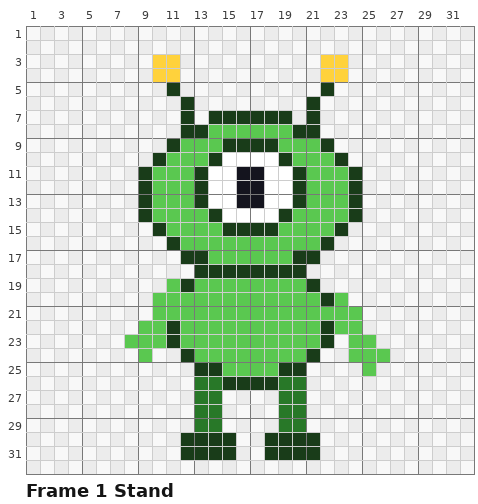
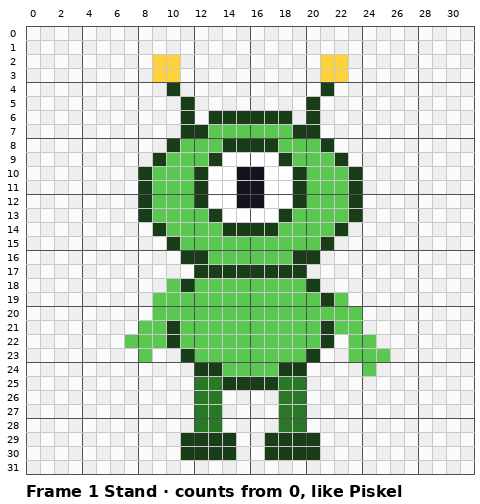
Jumping Alien: count rows and columns from 0; redraw frame grids; mouse counter note
Claude-Session: https://claude.ai/code/session_0163dwnT656jUnDkoJDXqKES

diff --git a/piskel/lesson-00-jumping-alien/index.html b/piskel/lesson-00-jumping-alien/index.html
@@ -78,7 +78,7 @@
       <div class="bubble"><b>5C · Hand in</b>Google Classroom<br>.piskel + .png</div>
     </div></div>
   </div>
-  <p class="key">Each colour is one part. Codes like 2B mean Part 2, section B. Underlined words are links. Codes like #5AC850 are colours.</p>
+  <p class="key">Each colour is one part. Codes like 2B mean Part 2, section B. Underlined words are links. Codes like #5AC850 are colours. Row and column numbers count from 0, the same as Piskel's yellow mouse counter and the picture grids.</p>
 </section>
 
 <div class="controls">
@@ -100,6 +100,7 @@
 <tr><td><b>Canvas</b> (where you draw)</td><td>Middle of the screen</td></tr>
 <tr><td><b>Preview</b> window, its speed slider and the quick <b>#</b> grid button</td><td>Top-right corner. The # button stays hidden until you move the mouse to the top of the Preview window, under Create Sprite.</td></tr>
 <tr><td><b>Settings</b> (gear) and its <b>Grid</b> tab</td><td>Strip of icons on the far right edge. Background (Misc tab), grid colour and turning the grid on (Grid tab) are set here.</td></tr>
+<tr><td><b>Mouse position</b> (yellow numbers)</td><td>Bottom-right, under the Palettes panel. Shows column:row of the pixel under the mouse, counting from 0.</td></tr>
 <tr><td><b>Resize</b>, <b>Save</b>, <b>Export</b>, <b>Import</b> buttons</td><td>A strip of icons down the far right edge</td></tr>
 </table>
 <p>Hold your mouse over any icon and its name pops up. Piskel has no hidden panels to lose; if the screen looks squashed, make the browser window full screen.</p>
@@ -136,8 +137,9 @@
 <details class="part" id="part2" name="parts" style="--c:var(--p2)">
 <summary><h2>Part 2 · Draw frame 1: Stand</h2><span class="done"></span></summary>
 <div class="body">
-<p>Copy the Stand picture square by square. The numbers along the top and side count the pixels, so you can find your place.</p>
-<img class="ref" src="img/frame-1.png" alt="Frame 1 Stand on a numbered 32 by 32 grid" width="482" height="504">
+<p>Copy the Stand picture square by square. The numbers along the top and side count the pixels from 0, so you can find your place.</p>
+<div class="note what"><b>Where is my mouse?</b> The yellow numbers at the bottom-right, under the Palettes panel, show which pixel the mouse is over: the canvas size in brackets, then <b>column:row</b>, counting from 0 like the grids. The top-left pixel is <b>0:0</b>.<img src="../../assets/piskel/mouse-position.png" alt="Yellow numbers at the bottom-right of Piskel: zoom, then canvas size and column:row under the mouse, then frame" width="170" height="70" style="display:block;max-width:100%;height:auto;margin:.5em 0;border:1px solid #ccc;border-radius:6px"></div>
+<img class="ref" src="img/frame-1.png?v=2" alt="Frame 1 Stand on a numbered 32 by 32 grid" width="480" height="504">
 <table>
 <tr><th>Part of the alien</th><th>Colour code</th></tr>
 <tr><td>Outline</td><td><b>#193C19</b> (very dark green)</td></tr>
@@ -178,7 +180,7 @@
 <div class="check"><strong>Checkpoint · Part 2</strong>
 <label><input type="checkbox"> The alien matches the Stand picture (close is fine)</label>
 <label><input type="checkbox"> The background around it is still see-through (checkerboard)</label>
-<label><input type="checkbox"> The feet touch row 31 and nothing is drawn below row 31</label>
+<label><input type="checkbox"> The feet touch row 30 and nothing is drawn below row 30</label>
 <label><input type="checkbox"> The Preview window (top-right) shows the alien</label>
 </div>
 </div>
@@ -194,16 +196,16 @@
 <div class="note"><b>Close enough is fine.</b> What matters is the pose: squashed, stretched, tucked, squashed. Use the grids as a guide, not a test.</div>
 
 <h3>3A · Frame 2: Crouch</h3>
-<img class="ref" src="img/frame-2.png" alt="Frame 2 Crouch on a numbered grid" width="482" height="504">
+<img class="ref" src="img/frame-2.png?v=2" alt="Frame 2 Crouch on a numbered grid" width="480" height="504">
 <ol>
 <li>Duplicate <b>frame 1</b>. Frame 2 appears and opens on the canvas.</li>
 <li>Choose the <b>Move tool</b> (the four-way arrow) and drag the drawing <b>down 3 squares</b>. The whole alien slides down; the feet go off the bottom edge for now.</li>
-<li>Erase the old straight legs (right-click with the Pen) and draw <b>bent legs</b> spreading out to the sides, with the feet on row 31, as in the picture.</li>
+<li>Erase the old straight legs (right-click with the Pen) and draw <b>bent legs</b> spreading out to the sides, with the feet on row 30, as in the picture.</li>
 <li>The head is a little shorter (squashed) in the picture. Erase a row from the top of the head and redraw the top of the outline if you want the full squash.</li>
 </ol>
 
 <h3>3B · Frame 3: Jump</h3>
-<img class="ref" src="img/frame-3.png" alt="Frame 3 Jump on a numbered grid" width="482" height="504">
+<img class="ref" src="img/frame-3.png?v=2" alt="Frame 3 Jump on a numbered grid" width="480" height="504">
 <ol>
 <li>Duplicate <b>frame 1</b> (Stand), not Crouch. Hold the mouse over frame 1 and click Duplicate. The copy appears below frame 1.</li>
 <li>Hold the mouse over the new frame and drag it by its <b>move</b> handle to just below frame 2. The order should be Stand, Crouch, Jump.</li>
@@ -211,7 +213,7 @@
 </ol>
 
 <h3>3C · Frame 4: Top</h3>
-<img class="ref" src="img/frame-4.png" alt="Frame 4 Top on a numbered grid" width="482" height="504">
+<img class="ref" src="img/frame-4.png?v=2" alt="Frame 4 Top on a numbered grid" width="480" height="504">
 <ol>
 <li>Duplicate <b>frame 3</b>. Frame 4 appears below it.</li>
 <li>Erase the long legs and draw short <b>tucked legs</b> right under the body.</li>
@@ -219,7 +221,7 @@
 </ol>
 
 <h3>3D · Frame 5: Land</h3>
-<img class="ref" src="img/frame-5.png" alt="Frame 5 Land on a numbered grid" width="482" height="504">
+<img class="ref" src="img/frame-5.png?v=2" alt="Frame 5 Land on a numbered grid" width="480" height="504">
 <ol>
 <li>Duplicate <b>frame 2</b> (Crouch) and drag the copy to the bottom of the list, below frame 4.</li>
 <li>Erase the arms and draw them <b>straight out</b> to the sides, like frame 4. This is the alien catching its balance.</li>
